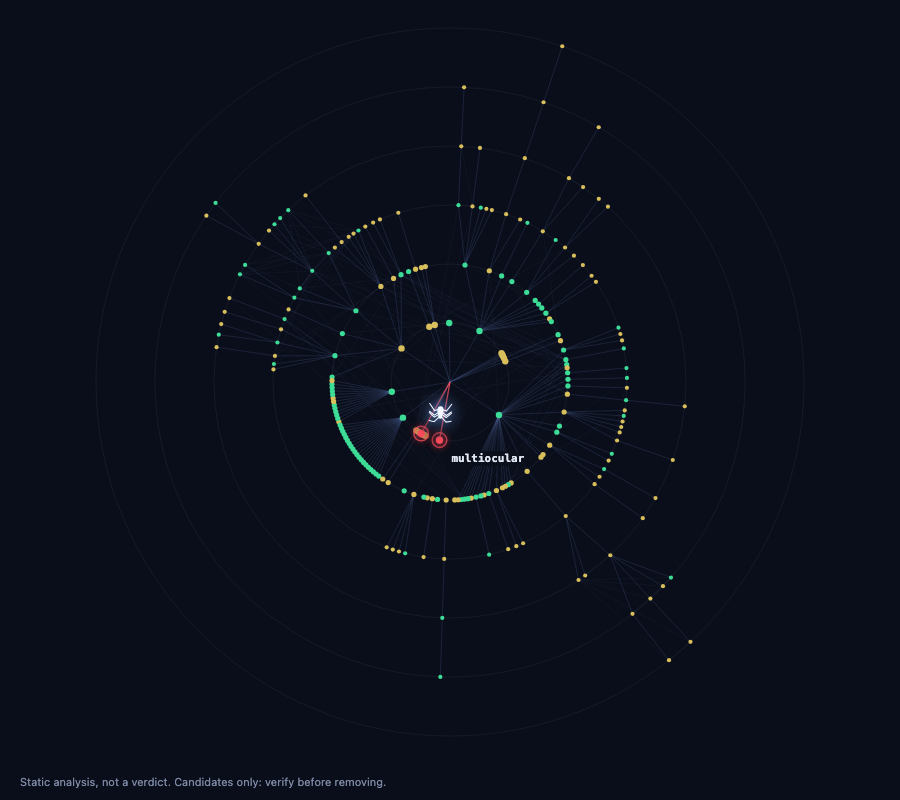
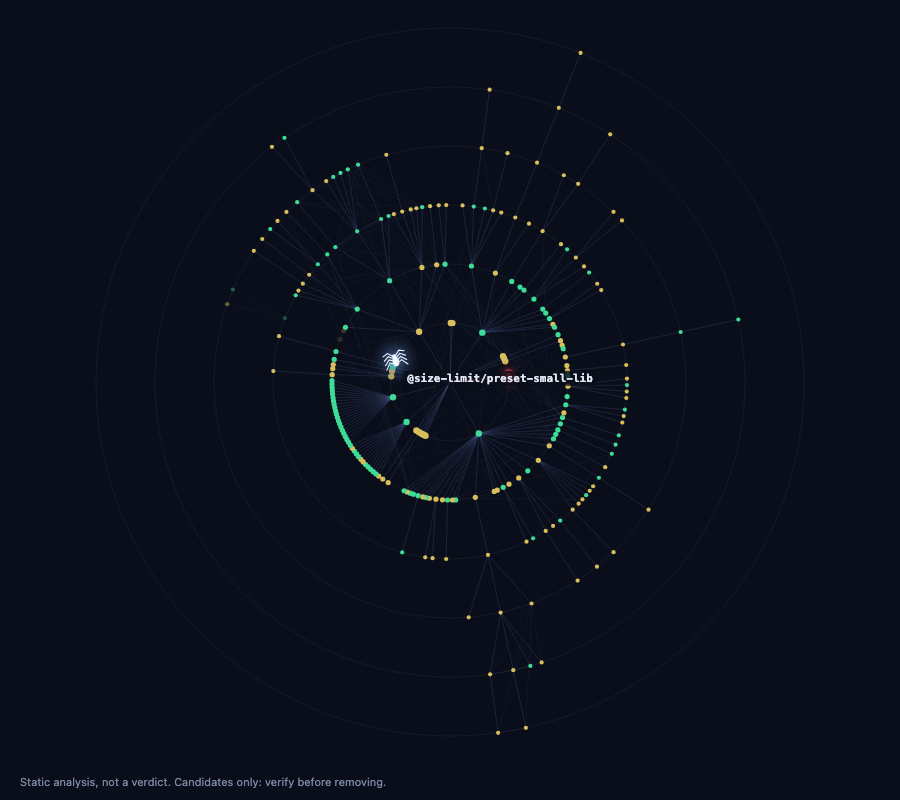
Re-run validation and showcase after config-key fix; add karma note

diff --git a/results/removal-test-postcss.md b/results/removal-test-postcss.md
@@ -1,4 +1,4 @@
-# Removal test: postcss/postcss, 3 candidates, 1 false positive
+# Removal test: postcss/postcss, 3 candidates, 2 wrong, 1 unconfirmed
 
 Date: 2026-10-16. Node v24.21.0. Throwaway clone outside this project: `git clone --depth 1 https://github.com/postcss/postcss.git`, commit `f1aca7ec68ab0cfb96cc9e69520a87f641c5a9e4`.
 
@@ -12,7 +12,9 @@ postcss is a pnpm project. `npm install` fails with `ERESOLVE`, so I used pnpm t
 npx --yes pnpm@12.11.2 install --frozen-lockfile        # exit 0
 ```
 
-The scanner's candidates for this repo (all three also flagged by depcheck): `@size-limit/preset-small-lib`, `multiocular`, `simple-git-hooks` (all devDependencies).
+**This test ran on the scanner as it was before the config-key fix**, which reported three candidates for this repo (also flagged by depcheck without install). Today's scanner reports two, because `simple-git-hooks` is no longer a candidate (see below).
+
+The three candidates tested: `@size-limit/preset-small-lib`, `multiocular`, `simple-git-hooks` (all devDependencies).
 
 The repo's own `test` script is `pnpm run /^test:/`; I ran each script separately:
 
@@ -58,9 +60,15 @@ Each run: `git checkout package.json pnpm-lock.yaml`, `pnpm install --frozen-loc
 ## What each candidate is
 
 - **`@size-limit/preset-small-lib`: false positive.** `size-limit` loads its preset plugin by installed package name and refuses to run without one. The repo's `test:size` script depends on it. The scanner saw `size-limit` in `scripts` but cannot see that it needs a plugin package. Same class as the express `hbs` result: a package loaded by name at runtime.
-- **`simple-git-hooks`: used, but not by any test.** `package.json` has a top-level `"simple-git-hooks": {"pre-commit": "./test/version.js"}` config block and `pnpm-workspace.yaml` lists it. Running `pnpm exec simple-git-hooks` writes `.git/hooks/pre-commit` ending in `./test/version.js`. Removing the package leaves that config block orphaned and contributors would no longer get the pre-commit hook; no test notices. The scanner missed it because it searches the *values* of package.json keys but not the key *names*, and a top-level key named after the tool is the normal way to configure it. This is a scanner gap, not fixed in this round (it would change the numbers published elsewhere).
-- **`multiocular`: no reference anywhere.** `git grep -i multiocular` finds only `package.json` and the lockfile. Its description is "Review dependencies changes to prevent supply chain attack" and it ships a `multiocular` bin, so it may be run by hand or by maintainers' tooling outside the repo. The test suite does not need it; whether anything else does is unknown.
+- **`simple-git-hooks`: wrong, a scanner bug (now fixed).** It is used, but not by any test. `package.json` has a top-level `"simple-git-hooks": {"pre-commit": "./test/version.js"}` config block and `pnpm-workspace.yaml` lists it. Running `pnpm exec simple-git-hooks` writes `.git/hooks/pre-commit` ending in `./test/version.js`. Removing the package leaves that config block orphaned and contributors would no longer get the pre-commit hook; no test notices. The scanner missed it because it searched the *values* of package.json keys but not key *names*. It now counts a top-level key whose name equals a declared package as a mention, so `simple-git-hooks` is no longer reported.
+- **`multiocular`: unconfirmed.** No reference anywhere. `git grep -i multiocular` finds only `package.json` and the lockfile. Its description is "Review dependencies changes to prevent supply chain attack" and it ships a `multiocular` bin, so it may be run by hand or by maintainers' tooling outside the repo. The test suite does not need it; whether anything else does is unknown.
 
 ## Summary
 
-3 candidates, 1 false positive found by a test script (`@size-limit/preset-small-lib`), 1 more shown to be in use by configuration (`simple-git-hooks`), 1 with no reference in the repo (`multiocular`). One repo, so no generalisation. Together with the express result (`hbs`, 1 candidate, false positive): 2 repos tested, 4 candidates, at least 2 false positives.
+3 candidates tested (scanner before the config-key fix): `@size-limit/preset-small-lib` is wrong (found by a test script: `test:size` fails), `simple-git-hooks` is wrong (in use through its config key; scanner bug, now fixed), `multiocular` is unconfirmed (no reference in the repo, nothing I ran broke, but that does not prove it is unused).
+
+Together with the express result (`hbs`, wrong: 6 tests fail): **4 candidates tested, 3 wrong, 1 unconfirmed, 0 confirmed unused**, in 2 repos.
+
+## What this means for the postcss shed number
+
+The app now reports two postcss candidates (228 to 205 packages, -23). That is an upper bound: 6 of the 23 come from `@size-limit/preset-small-lib`, a proven false positive, and the other 17 come from `multiocular`, which is unconfirmed.

diff --git a/results/validation.md b/results/validation.md
@@ -10,8 +10,8 @@ Neither tool is ground truth. "Disagreement" means the two lists differ; the rea
 | koajs/koa | 23 | 82/82 | 0 | 4 | 0 | 0 | 4 | 0 of 327 |
 | hexojs/hexo | 47 | 274/274 | 0 | 7 | 0 | 0 | 7 | 0 of 524 |
 | mochajs/mocha | 53 | 300/478 (cap) | 1 | 12 | 1 | 0 | 11 | 2 of 585 |
-| postcss/postcss | 21 | 63/63 | 3 | 9 | 3 | 0 | 6 | 24 of 228 |
-| axios/axios | 42 | 278/278 | 2 | 12 | 1 | 1 | 11 | 2 of 540 |
+| postcss/postcss | 21 | 63/63 | 2 | 9 | 2 | 0 | 7 | 23 of 228 |
+| axios/axios | 42 | 278/278 | 1 | 12 | 1 | 0 | 11 | 0 of 540 |
 | chalk/chalk | 11 | 13/13 | 1 | 5 | 1 | 0 | 4 | 1 of 481 |
 | tj/commander.js | 9 | 170/170 | 0 | 2 | 0 | 0 | 2 | 0 of 181 |
 | winstonjs/winston | 29 | 82/82 | 1 | 5 | 1 | 0 | 4 | 3 of 518 |
@@ -19,7 +19,7 @@ Neither tool is ground truth. "Disagreement" means the two lists differ; the rea
 | debug-js/debug | 12 | 7/7 | 4 | 10 | 4 | 0 | 6 | 7 of 682 |
 | expressjs/body-parser | 14 | 14/14 | 0 | 2 | 0 | 0 | 2 | 0 of 274 |
 
-Totals over 13 repos that ran: mine 15, depcheck 84, in both 14, only mine 1, only depcheck 70.
+Totals over 13 repos that ran: mine 13, depcheck 84, in both 13, only mine 0, only depcheck 71.
 Repos where both tools report exactly the same set: 0 of 13.
 
 ## Disagreements
@@ -60,10 +60,10 @@ Repos where both tools report exactly the same set: 0 of 13.
 - **postcss/postcss**: only depcheck: `c8` - mine: mentioned in scripts/config (name, bin or shorthand)
 - **postcss/postcss**: only depcheck: `check-dts` - mine: mentioned in scripts/config (name, bin or shorthand)
 - **postcss/postcss**: only depcheck: `eslint` - mine: mentioned in scripts/config (name, bin or shorthand)
+- **postcss/postcss**: only depcheck: `simple-git-hooks` - mine: mentioned in scripts/config (name, bin or shorthand)
 - **postcss/postcss**: only depcheck: `size-limit` - mine: mentioned in scripts/config (name, bin or shorthand)
 - **postcss/postcss**: only depcheck: `ts-node` - mine: mentioned in scripts/config (name, bin or shorthand)
 - **postcss/postcss**: only depcheck: `typescript` - mine: peer dependency of @logux/oxc-configs
-- **axios/axios**: only mine: `lint-staged` - no occurrence outside package.json/lockfiles/docs (looks like a true ghost)
 - **axios/axios**: only depcheck: `@babel/core` - mine: peer dependency of @babel/preset-env
 - **axios/axios**: only depcheck: `@babel/preset-env` - mine: mentioned in scripts/config (name, bin or shorthand)
 - **axios/axios**: only depcheck: `@commitlint/cli` - mine: mentioned in scripts/config (name, bin or shorthand)
@@ -98,11 +98,11 @@ Repos where both tools report exactly the same set: 0 of 13.
 
 ## Agreed candidates
 
-- **fastify/fastify**: `@stylistic/eslint-plugin` (needed by neostandard), `@stylistic/eslint-plugin-js` (1)
+- **fastify/fastify**: `@stylistic/eslint-plugin` (needed by neostandard; lower confidence: likely loaded by eslint), `@stylistic/eslint-plugin-js` (1; lower confidence: likely loaded by eslint)
 - **expressjs/express**: `hbs` (9)
 - **mochajs/mocha**: `tsx` (2)
-- **postcss/postcss**: `@size-limit/preset-small-lib` (6), `multiocular` (17), `simple-git-hooks` (1)
-- **axios/axios**: `@vitest/browser` (needed by @vitest/browser-playwright)
+- **postcss/postcss**: `@size-limit/preset-small-lib` (6; lower confidence: likely loaded by size-limit), `multiocular` (17)
+- **axios/axios**: `@vitest/browser` (needed by @vitest/browser-playwright; lower confidence: likely loaded by vitest)
 - **chalk/chalk**: `yoctodelay` (1)
 - **winstonjs/winston**: `abstract-winston-transport` (3)
-- **debug-js/debug**: `karma-browserify` (4), `karma-chrome-launcher` (1), `karma-mocha` (1), `mocha-lcov-reporter` (1)
+- **debug-js/debug**: `karma-browserify` (4; lower confidence: likely loaded by karma), `karma-chrome-launcher` (1; lower confidence: likely loaded by karma), `karma-mocha` (1; lower confidence: likely loaded by karma), `mocha-lcov-reporter` (1; lower confidence: likely loaded by mocha)

diff --git a/results/karma-note.md b/results/karma-note.md
@@ -1,0 +1,23 @@
+# Note: are debug's karma packages used by name?
+
+Date: 2026-10-16. Read-only check, **tests were not run**. Throwaway clone of `debug-js/debug` (commit `666dbc50680933bde9e7fde3a6c3241102e8f60b`), outside this project.
+
+Command: `git grep -n "frameworks\|browsers\|plugins" -- karma.conf.js`
+
+```
+karma.conf.js:4:		// available frameworks: https://npmjs.org/browse/keyword/karma-adapter
+karma.conf.js:5:		frameworks: ['browserify', 'mocha'],
+karma.conf.js:29:		// Start these browsers
+karma.conf.js:31:		browsers: ['HeadlessChrome'],
+karma.conf.js:50:		// if true, Karma captures browsers, runs the tests and exits
+```
+
+There is no `plugins:` entry, so Karma's default applies: it auto-loads every installed `karma-*` package. `package.json` runs it with `"test:browser": "karma start --single-run"`. The rest of `karma.conf.js` (read in full) adds `preprocessors: {...: ['browserify']}`, `browserify: { transform: ['brfs'] }` and `customLaunchers.HeadlessChrome.base: 'ChromeHeadless'`.
+
+| Candidate | Used by name? | Evidence |
+|---|---|---|
+| `karma-mocha` | Yes | `frameworks: [..., 'mocha']`: the `mocha` framework is provided by this plugin |
+| `karma-browserify` | Yes | `frameworks: ['browserify', ...]` and `preprocessors: [...]: ['browserify']` |
+| `karma-chrome-launcher` | Very probably | `base: 'ChromeHeadless'` is a launcher name that this package provides; the package name never appears in the file. This step relies on how Karma plugins are known to work, not on anything I ran |
+
+So all three are very probably false positives of the scanner, matching depcheck-with-install, which does not flag `karma-browserify` or `karma-mocha`. Not confirmed by a removal test. The "lower confidence: likely loaded by karma" badge fires on all three.

diff --git a/results/validation-installed.md b/results/validation-installed.md
@@ -4,8 +4,8 @@ Each clone got `npm install --ignore-scripts --no-audit --no-fund --legacy-peer-
 
 | Repo | Install (s) | depcheck, no install | depcheck, installed | My candidates | Both (installed) | Only mine now | Only depcheck now |
 |---|---|---|---|---|---|---|---|
-| postcss/postcss | 30 | 9 | 4 | 3 | 3 | 0 (-) | 1 (`ts-node`) |
+| postcss/postcss | 30 | 9 | 4 | 2 | 2 | 0 (-) | 2 (`simple-git-hooks`, `ts-node`) |
 | expressjs/express | 5 | 4 | 1 | 1 | 1 | 0 (-) | 0 (-) |
 | debug-js/debug | 57 | 10 | 3 | 4 | 2 | 2 (`karma-browserify`, `karma-mocha`) | 1 (`brfs`) |
 
-Totals: depcheck flags 23 without install and 8 with install; mine 8; in both (installed) 6.
+Totals: depcheck flags 23 without install and 8 with install; mine 7; in both (installed) 5.
